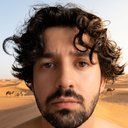
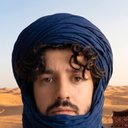
Odomètre mécanique pour les km + nouveau portrait vivant de Gal (touareg)
Le compteur de km du header devient un odomètre : une bande 0-9 par
chiffre qui roule dans sa fenêtre quand on scrubbe (Space Mono, chasse
fixe). Gal passe au portrait touareg. Sources incluses = point de
restauration.

diff --git a/src/template.html b/src/template.html
@@ -35,6 +35,23 @@ header{grid-area:head;display:flex;align-items:baseline;gap:18px;flex-wrap:wrap;
 .head-stats{margin-left:auto;display:flex;gap:26px;}
 .stat{display:flex;flex-direction:column;gap:2px;text-align:right}
 .stat b{font-family:var(--display);font-weight:600;font-size:18px;letter-spacing:.04em;color:var(--sand)}
+/* odomètre mécanique : chaque chiffre est une bande 0-9 qui roule dans sa
+   fenêtre (dégradé haut/bas = ombrage du tambour). Space Mono, chasse fixe */
+/* NB : les chiffres sont des <span> DANS .stat, donc `.stat span` (9.5px,
+   gris terne) les attrape — d'où les sélecteurs .odo X, plus spécifiques */
+.stat b.odo{--oh:1.34em;display:inline-flex;align-items:stretch;font-family:var(--mono);
+  font-weight:700;font-size:17px;letter-spacing:0;line-height:1}
+/* les 3 sont des <span> : il faut TOUS les sortir de `.stat span`, sinon la
+   taille repart à 9.5px au premier maillon oublié (le rouleau, ici) */
+.odo .odo-d,.odo .odo-r,.odo .odo-sep{font-size:inherit;color:var(--sand);
+  letter-spacing:0;text-transform:none}
+.odo .odo-d{display:block;width:.68em;height:var(--oh);overflow:hidden;position:relative;
+  background:linear-gradient(180deg,rgba(0,0,0,.34),rgba(0,0,0,0) 36%,
+    rgba(0,0,0,0) 64%,rgba(0,0,0,.34));border-radius:2px;margin-left:1px}
+.odo .odo-r{display:block;transition:transform .45s cubic-bezier(.24,1.25,.4,1)}
+.odo .odo-r i{display:block;height:var(--oh);line-height:var(--oh);font-style:normal;
+  text-align:center}
+.odo .odo-sep{display:block;width:.3em;text-align:center;line-height:var(--oh)}
 .stat span{font-family:var(--mono);font-size:9.5px;text-transform:uppercase;letter-spacing:.13em;color:var(--muted)}
 
 #map{grid-area:map;height:100%;width:100%;background:#14110E;}
@@ -294,6 +311,7 @@ span.fiche-face{display:block;overflow:hidden}
   .head-stats{gap:10px}
   .head-stats .stat:last-child{display:none} /* pax déjà visible sur les voitures */
   .stat b{font-size:13px}
+  .stat b.odo{font-size:12.5px}
   .stat span{font-size:7.5px;letter-spacing:.06em}
   #map{z-index:1}
   .panel{position:relative;z-index:5;border-left:none;border-top:1px solid var(--line);
@@ -414,6 +432,26 @@ function hav(a,b){const R=6371,d=Math.PI/180;
 // cumulative distance of full route
 let totalKm=0; for(let i=1;i<ROUTE.length;i++) totalKm+=hav(ROUTE[i-1],ROUTE[i]);
 const kmFmt = n => Math.round(n).toLocaleString('fr-FR');
+
+// odomètre : réutilise les bandes tant que la "forme" du nombre ne change pas
+// (même longueur, mêmes séparateurs), sinon les reconstruit et les fait rouler
+// depuis 0 — la transition CSS fait tout le travail, y compris interrompue
+// en plein scrub
+function odoSet(el,n){
+  const str=kmFmt(n), shape=str.replace(/\d/g,'#');
+  if(el.dataset.shape!==shape){
+    el.dataset.shape=shape; el.className='odo';
+    el.innerHTML=[...str].map(c=>/\d/.test(c)
+      ? `<span class="odo-d"><span class="odo-r">${
+          [0,1,2,3,4,5,6,7,8,9].map(d=>`<i>${d}</i>`).join('')}</span></span>`
+      : `<span class="odo-sep">${c}</span>`).join('');
+    void el.offsetHeight;  // force le calcul du style initial => ça anime
+  }
+  // --oh (hauteur d'une case) reste défini une seule fois, en CSS
+  const reels=el.querySelectorAll('.odo-r'); let k=0;
+  for(const c of str) if(/\d/.test(c))
+    reels[k++].style.transform=`translateY(calc(${-c} * var(--oh)))`;
+}
 // km actually driven up to a convoy position {upTo, partial}
 function traveledKm(P){
   let km=0; for(let i=0;i<P.upTo;i++) km+=hav(ROUTE[i],ROUTE[i+1]);
@@ -817,7 +855,7 @@ const LIVE={
   Edouard:{src:'photos/videos/edouard_live.mp4',w:'210%',l:'-55%',t:'-50%'},
   Younous:{src:'photos/videos/younous_live.mp4',w:'170%',l:'-36%',t:'-31%'},
   Hugo:{src:'photos/videos/hugo_live.mp4',w:'182%',l:'-44%',t:'-72%'},
-  Gal:{src:'photos/videos/gal_live.mp4',w:'103%',l:'-1%',t:'-12%'},
+  Gal:{src:'photos/videos/gal_live.mp4',w:'174%',l:'-39%',t:'-38%'},
   Malen:{src:'photos/videos/malen_live.mp4',w:'167%',l:'-35%',t:'-83%'},
 };
 function liveWrap(name,ph,auto){
@@ -917,7 +955,7 @@ function render(){
   const pct=(idx/(REC.length-1))*100; scrub.style.setProperty('--pct',pct+'%');
   document.getElementById('s-pax').textContent=paxCount(rec);
   document.getElementById('s-day').textContent=`${idx+1} / ${REC.length}`;
-  document.getElementById('s-km').textContent=kmFmt(traveledKm(P));
+  odoSet(document.getElementById('s-km'),traveledKm(P));
   carsEl.innerHTML=renderCar(1,rec)+'<div style="height:14px"></div>'+renderCar(2,rec);
   // active leg: highlight card + keep it visible in the slider
   const li=P.legIdx;

diff --git a/src/make_faces.py b/src/make_faces.py
@@ -33,7 +33,7 @@ THUMB = 128  # px, plenty for a ~30px chip on retina
 
 # name-in-data -> (file, cx, cy, size_frac_of_width)
 CROPS = {
-    "Gal":     ("gal_frame.png", 0.50, 0.446, 0.975),
+    "Gal":     ("gal_frame.png", 0.5125, 0.374, 0.575),
     "Arthur":  ("arthur.jpeg",  0.46, 0.42, 0.42),
     "Dorvan":  ("dorvan.jpeg",  0.72, 0.425, 0.22),
     # Edouard/Younous ont un portrait vivant : le crop statique vient de la

diff --git a/src/CLAUDE.md b/src/CLAUDE.md
@@ -96,6 +96,15 @@ Key JS structures (all near the top of the script):
   Faces render in seat chips (30 px circle, status-colored ring, hover zoom
   ×3.2 via `.seat-chip.photo:hover img`); all 10 travelers have one (a
   missing face would fall back to the initial letter).
+- **Odomètre** (`odoSet()`, `.odo*` CSS): the header's km stat is a mechanical
+  counter — one 0-9 reel per digit in a `overflow:hidden` window, rolled by
+  `transform: translateY(calc(-N * var(--oh)))` with a CSS transition, so
+  scrubbing makes the digits spin. `--oh` (cell height) is the single source
+  of truth. Reels are rebuilt only when the number's *shape* changes
+  (digit count / separators), then roll in from 0. Gotcha: the digits are
+  `<span>`s inside `.stat`, so ALL THREE classes (`.odo-d`, `.odo-r`,
+  `.odo-sep`) must override `.stat span` (9.5px, muted) — forgetting the
+  reel alone silently shrinks everything it contains.
 - Map rendering in `render()`: `traveled` orange polyline (+ glow) up to the
   convoy, `legLine` highlighting the ACTIVE leg (this is what makes a clicked
   leg visible — don't remove it) with animated dashes (`.leg-flow` CSS) and

diff --git a/photos/videos/CLAUDE.md b/photos/videos/CLAUDE.md
@@ -15,7 +15,7 @@ falls back to the static photo (`oncanplay` gate → `.vid-ok`).
 | `edouard_live.mp4` | Edouard | 800×1088, 5 s mugshot loop; head ≈ (50%, 35%) → w:210% l:-55% t:-50% |
 | `younous_live.mp4` | Younous | 800×1088 mugshot loop; big curly hair → w:170% l:-36% t:-31% |
 | `hugo_live.mp4`    | Hugo    | 800×1418 colonial-explorer loop (jungle, pith helmet) → w:182% l:-44% t:-72% |
-| `gal_live.mp4`     | Gal     | 800×1088 desert close-up (camels behind); face fills the frame → w:103% l:-1% t:-12% |
+| `gal_live.mp4`     | Gal     | 800×1088 Touareg portrait (indigo chèche, camp + camels behind) → w:174% l:-39% t:-38% |
 | `malen_live.mp4`   | Malen   | 800×1015 soviet-square smoke break (lighter + cigarette in frame) → w:167% l:-35% t:-83% |
 
 The STATIC face crops of live-portrait people come from the video's FIRST